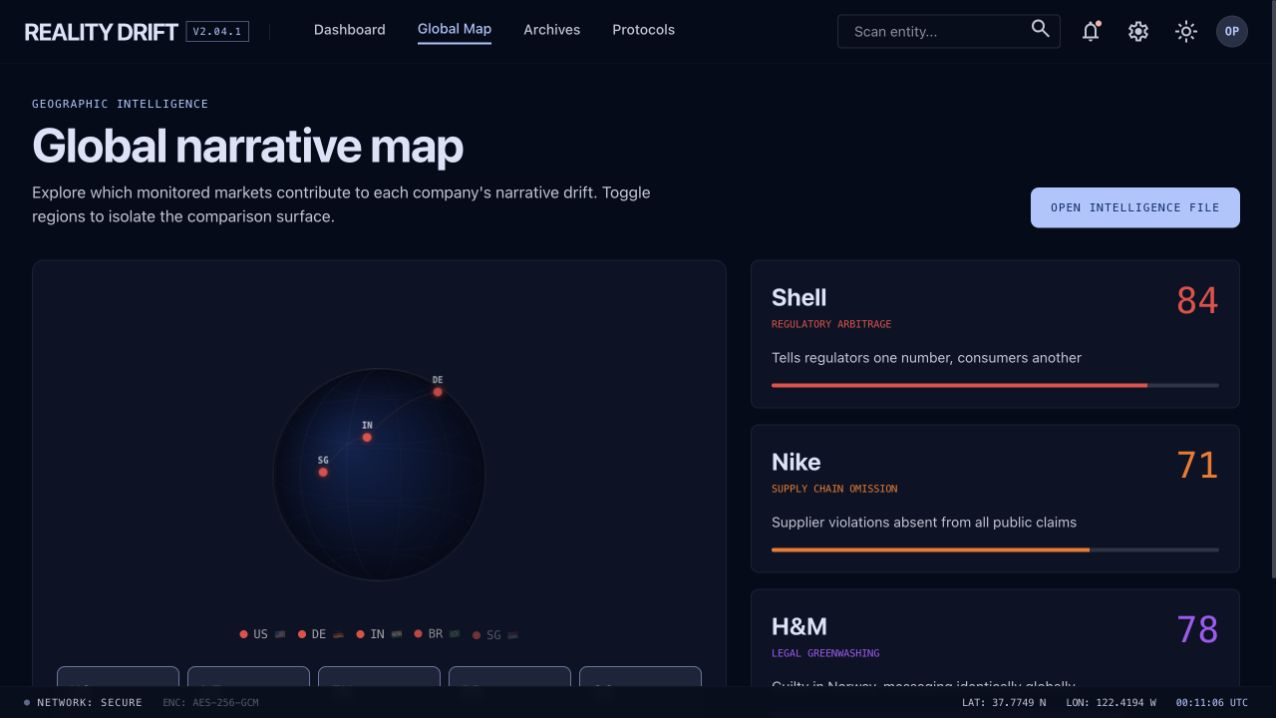
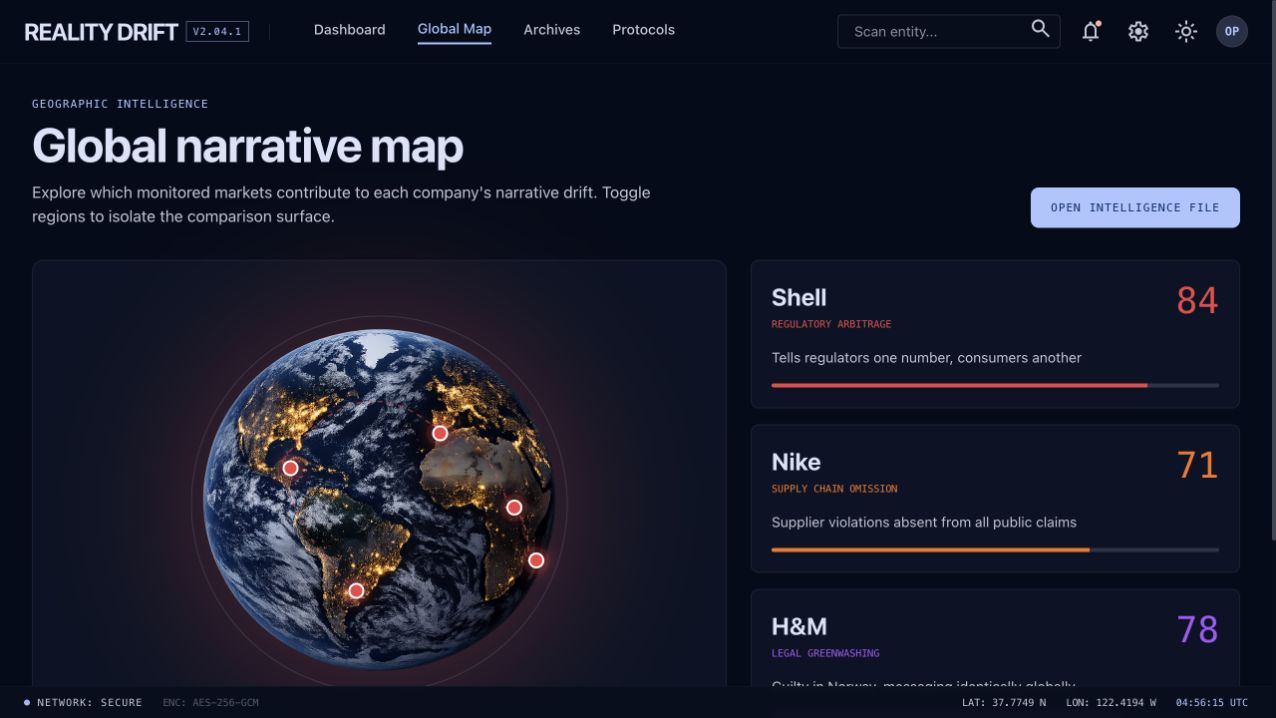
fix: use photorealistic Earth for global map

Changed region(s): [[0.0306, 0.3983, 0.4585, 0.9499], [0.4279, 0.9192, 0.5502, 0.9499], [0.9781, 0.766, 1.0, 0.7967]]

diff --git a/frontend/components/globe/DriftGlobe.tsx b/frontend/components/globe/DriftGlobe.tsx
@@ -1,15 +1,13 @@
 "use client";
 
-import { useEffect, useRef, useState } from "react";
 import { motion } from "framer-motion";
-import { REGION_COORDS } from "@/lib/types";
 
-const REGION_FLAGS: Record<string, string> = {
-  US: "🇺🇸",
-  DE: "🇩🇪",
-  IN: "🇮🇳",
-  BR: "🇧🇷",
-  SG: "🇸🇬",
+const REGION_META: Record<string, { flag: string; left: string; top: string; label: string }> = {
+  US: { flag: "🇺🇸", left: "28%", top: "40%", label: "United States" },
+  DE: { flag: "🇩🇪", left: "62%", top: "32%", label: "Germany / EU" },
+  IN: { flag: "🇮🇳", left: "79%", top: "49%", label: "India" },
+  BR: { flag: "🇧🇷", left: "43%", top: "68%", label: "Brazil" },
+  SG: { flag: "🇸🇬", left: "84%", top: "61%", label: "Singapore" },
 };
 
 interface DriftGlobeProps {
@@ -17,210 +15,8 @@ interface DriftGlobeProps {
   rdiScore?: number;
 }
 
-// Canvas-based fallback globe for SSR safety
-function GlobeCanvas({ activeRegions, rdiScore }: DriftGlobeProps) {
-  const canvasRef = useRef<HTMLCanvasElement>(null);
-  const animRef = useRef<number>(0);
-  const rotationRef = useRef(0);
-
-  // Color based on RDI score
-  const driftColor =
-    !rdiScore || rdiScore < 30
-      ? "#22c55e"
-      : rdiScore < 50
-      ? "#eab308"
-      : rdiScore < 70
-      ? "#f97316"
-      : "#ef4444";
-
-  useEffect(() => {
-    const canvas = canvasRef.current;
-    if (!canvas) return;
-
-    const ctx = canvas.getContext("2d");
-    if (!ctx) return;
-    const draw = ctx; // non-null alias for use inside closure
-
-    const W = canvas.width;
-    const H = canvas.height;
-    const cx = W / 2;
-    const cy = H / 2;
-    const R = Math.min(W, H) * 0.38;
-
-    // Project lat/lng to 3D sphere, then to 2D with rotation
-    function project(lat: number, lng: number, rotation: number) {
-      const phi = ((90 - lat) * Math.PI) / 180;
-      const theta = ((lng + rotation) * Math.PI) / 180;
-      const x = R * Math.sin(phi) * Math.cos(theta);
-      const y = -R * Math.cos(phi);
-      const z = R * Math.sin(phi) * Math.sin(theta);
-      return { x: cx + x, y: cy + y, z };
-    }
-
-    function drawFrame() {
-      draw.clearRect(0, 0, W, H);
-      rotationRef.current += 0.15;
-      const rot = rotationRef.current;
-
-      // Outer glow
-      const grd = draw.createRadialGradient(cx, cy, R * 0.6, cx, cy, R * 1.4);
-      grd.addColorStop(0, "rgba(30, 58, 138, 0.08)");
-      grd.addColorStop(1, "transparent");
-      draw.beginPath();
-      draw.arc(cx, cy, R * 1.4, 0, Math.PI * 2);
-      draw.fillStyle = grd;
-      draw.fill();
-
-      // Globe body
-      const sphereGrd = draw.createRadialGradient(cx - R * 0.3, cy - R * 0.3, R * 0.05, cx, cy, R);
-      sphereGrd.addColorStop(0, "rgba(15, 35, 80, 0.95)");
-      sphereGrd.addColorStop(1, "rgba(5, 10, 24, 0.98)");
-      draw.beginPath();
-      draw.arc(cx, cy, R, 0, Math.PI * 2);
-      draw.fillStyle = sphereGrd;
-      draw.fill();
-
-      // Globe border
-      draw.beginPath();
-      draw.arc(cx, cy, R, 0, Math.PI * 2);
-      draw.strokeStyle = "rgba(255, 255, 255, 0.08)";
-      draw.lineWidth = 1;
-      draw.stroke();
-
-      // Latitude lines
-      draw.save();
-      draw.beginPath();
-      draw.arc(cx, cy, R, 0, Math.PI * 2);
-      draw.clip();
-      for (let lat = -60; lat <= 60; lat += 30) {
-        const y = cy - R * Math.sin((lat * Math.PI) / 180);
-        const r = R * Math.cos((lat * Math.PI) / 180);
-        draw.beginPath();
-        draw.ellipse(cx, y, r, r * 0.25, 0, 0, Math.PI * 2);
-        draw.strokeStyle = "rgba(255, 255, 255, 0.04)";
-        draw.lineWidth = 0.5;
-        draw.stroke();
-      }
-      // Longitude lines
-      for (let lng = 0; lng < 180; lng += 30) {
-        const pts: { x: number; y: number }[] = [];
-        for (let lat = -90; lat <= 90; lat += 5) {
-          const p = project(lat, lng + rot, 0);
-          if (p.z >= 0) pts.push({ x: p.x, y: p.y });
-        }
-        if (pts.length > 1) {
-          draw.beginPath();
-          draw.moveTo(pts[0].x, pts[0].y);
-          for (let i = 1; i < pts.length; i++) draw.lineTo(pts[i].x, pts[i].y);
-          draw.strokeStyle = "rgba(255, 255, 255, 0.03)";
-          draw.lineWidth = 0.5;
-          draw.stroke();
-        }
-        const pts2: { x: number; y: number }[] = [];
-        for (let lat = -90; lat <= 90; lat += 5) {
-          const p = project(lat, lng + 90 + rot, 0);
-          if (p.z >= 0) pts2.push({ x: p.x, y: p.y });
-        }
-        if (pts2.length > 1) {
-          draw.beginPath();
-          draw.moveTo(pts2[0].x, pts2[0].y);
-          for (let i = 1; i < pts2.length; i++) draw.lineTo(pts2[i].x, pts2[i].y);
-          draw.strokeStyle = "rgba(255, 255, 255, 0.03)";
-          draw.lineWidth = 0.5;
-          draw.stroke();
-        }
-      }
-      draw.restore();
-
-      // Draw arcs between visible pins
-      const visiblePins = Object.entries(REGION_COORDS)
-        .map(([region, [lat, lng]]) => ({
-          region,
-          ...project(lat, lng, rot),
-          lat,
-          lng,
-          active: !activeRegions || activeRegions.includes(region),
-        }))
-        .filter((p) => p.z > -R * 0.2);
-
-      // Draw arcs between active pins
-      const activePins = visiblePins.filter((p) => p.active);
-      if (activePins.length > 1) {
-        for (let i = 0; i < activePins.length - 1; i++) {
-          const a = activePins[i];
-          const b = activePins[(i + 1) % activePins.length];
-          const midX = (a.x + b.x) / 2;
-          const midY = (a.y + b.y) / 2 - 20;
-
-          draw.beginPath();
-          draw.moveTo(a.x, a.y);
-          draw.quadraticCurveTo(midX, midY, b.x, b.y);
-          draw.strokeStyle = driftColor + "30";
-          draw.lineWidth = 0.8;
-          draw.stroke();
-        }
-      }
-
-      // Draw region pins
-      for (const pin of visiblePins) {
-        const isActive = !activeRegions || activeRegions.includes(pin.region);
-        const depth = (pin.z + R) / (2 * R); // 0-1 depth
-        const alpha = 0.4 + depth * 0.6;
-
-        if (isActive) {
-          // Glow ring
-          const glowGrd = draw.createRadialGradient(pin.x, pin.y, 2, pin.x, pin.y, 14);
-          glowGrd.addColorStop(0, driftColor + "60");
-          glowGrd.addColorStop(1, "transparent");
-          draw.beginPath();
-          draw.arc(pin.x, pin.y, 14, 0, Math.PI * 2);
-          draw.fillStyle = glowGrd;
-          draw.fill();
-        }
-
-        // Pin dot
-        draw.beginPath();
-        draw.arc(pin.x, pin.y, isActive ? 5 : 3, 0, Math.PI * 2);
-        draw.fillStyle = isActive
-          ? driftColor + Math.round(alpha * 255).toString(16).padStart(2, "0")
-          : `rgba(255,255,255,${alpha * 0.2})`;
-        draw.fill();
-
-        // Region label
-        if (isActive && depth > 0.4) {
-          draw.font = "bold 10px monospace";
-          draw.fillStyle = `rgba(255,255,255,${alpha * 0.8})`;
-          draw.textAlign = "center";
-          draw.fillText(pin.region, pin.x, pin.y - 10);
-        }
-      }
-
-      animRef.current = requestAnimationFrame(drawFrame);
-    }
-
-    animRef.current = requestAnimationFrame(drawFrame);
-    return () => cancelAnimationFrame(animRef.current);
-  }, [activeRegions, driftColor]);
-
-  return (
-    <canvas
-      ref={canvasRef}
-      width={320}
-      height={320}
-      className="w-full h-full"
-      style={{ maxWidth: 320, maxHeight: 320 }}
-    />
-  );
-}
-
 export default function DriftGlobe({ activeRegions, rdiScore }: DriftGlobeProps) {
-  const [mounted, setMounted] = useState(false);
-  const regions = activeRegions ?? ["US", "DE", "IN", "BR", "SG"];
-
-  useEffect(() => {
-    setMounted(true);
-  }, []);
-
+  const regions = activeRegions ?? Object.keys(REGION_META);
   const driftColor =
     !rdiScore || rdiScore < 30
       ? "#22c55e"
@@ -231,52 +27,77 @@ export default function DriftGlobe({ activeRegions, rdiScore }: DriftGlobeProps)
       : "#ef4444";
 
   return (
-    <div className="flex flex-col items-center gap-3">
+    <div className="flex flex-col items-center gap-4 w-full">
       <motion.div
-        initial={{ opacity: 0, scale: 0.9 }}
+        initial={{ opacity: 0, scale: 0.96 }}
         animate={{ opacity: 1, scale: 1 }}
-        transition={{ duration: 0.8, ease: "easeOut" }}
-        className="relative flex items-center justify-center"
-        style={{ width: 280, height: 280 }}
+        transition={{ duration: 0.7, ease: "easeOut" }}
+        className="relative w-full max-w-[440px] aspect-square isolate"
       >
-        {mounted ? (
-          <GlobeCanvas activeRegions={regions} rdiScore={rdiScore} />
-        ) : (
-          // SSR placeholder
-          <div
-            className="rounded-full border border-white/8"
-            style={{ width: 220, height: 220, background: "rgba(5,10,24,0.95)" }}
-          />
-        )}
-      </motion.div>
+        <div
+          className="absolute inset-[4%] rounded-full blur-3xl opacity-25"
+          style={{ background: driftColor }}
+        />
 
-      {/* Region pins legend */}
-      <motion.div
-        initial={{ opacity: 0 }}
-        animate={{ opacity: 1 }}
-        transition={{ delay: 0.5 }}
-        className="flex gap-3 flex-wrap justify-center"
-      >
-        {Object.entries(REGION_FLAGS).map(([region, flag], i) => {
-          const isActive = regions.includes(region);
+        {/* The project Earth asset is a 1024px photorealistic planetary render. */}
+        {/* eslint-disable-next-line @next/next/no-img-element */}
+        <img
+          src="/globe.png"
+          alt="Photorealistic Earth showing the monitored global regions"
+          className="absolute inset-0 w-full h-full object-contain rounded-full select-none"
+          draggable={false}
+        />
+
+        <svg className="absolute inset-0 w-full h-full pointer-events-none" viewBox="0 0 100 100" aria-hidden="true">
+          <path d="M28 40 Q45 18 62 32" fill="none" stroke={driftColor} strokeWidth="0.35" strokeDasharray="1.2 1.2" opacity="0.55" />
+          <path d="M62 32 Q73 32 79 49" fill="none" stroke={driftColor} strokeWidth="0.35" strokeDasharray="1.2 1.2" opacity="0.55" />
+          <path d="M79 49 Q84 53 84 61" fill="none" stroke={driftColor} strokeWidth="0.35" strokeDasharray="1.2 1.2" opacity="0.55" />
+          <path d="M43 68 Q30 56 28 40" fill="none" stroke={driftColor} strokeWidth="0.35" strokeDasharray="1.2 1.2" opacity="0.55" />
+        </svg>
+
+        {Object.entries(REGION_META).map(([region, meta], index) => {
+          const active = regions.includes(region);
           return (
             <motion.div
               key={region}
-              initial={{ opacity: 0, y: 5 }}
-              animate={{ opacity: isActive ? 1 : 0.3, y: 0 }}
-              transition={{ delay: 0.6 + i * 0.08 }}
-              className="flex items-center gap-1.5 text-xs"
+              initial={{ opacity: 0, scale: 0 }}
+              animate={{ opacity: active ? 1 : 0.2, scale: active ? 1 : 0.75 }}
+              transition={{ delay: 0.18 + index * 0.08 }}
+              className="absolute -translate-x-1/2 -translate-y-1/2 group"
+              style={{ left: meta.left, top: meta.top }}
             >
+              {active && (
+                <span
+                  className="absolute inset-0 rounded-full animate-ping"
+                  style={{ background: driftColor, opacity: 0.38 }}
+                />
+              )}
               <span
-                className="w-2 h-2 rounded-full flex-shrink-0"
-                style={{ background: isActive ? driftColor : "rgba(255,255,255,0.2)" }}
+                className="relative flex h-4 w-4 rounded-full border-2 border-white shadow-lg"
+                style={{ background: active ? driftColor : "#64748b", boxShadow: active ? `0 0 18px ${driftColor}` : undefined }}
               />
-              <span className="text-white/60 font-mono">{region}</span>
-              <span className="text-white/30">{flag}</span>
+              <span className="absolute left-1/2 -translate-x-1/2 top-5 whitespace-nowrap rounded bg-background/90 border border-outline-variant/30 px-2 py-1 font-data-label text-[9px] text-on-surface opacity-0 group-hover:opacity-100 transition-opacity z-20">
+                {region} · {meta.label}
+              </span>
             </motion.div>
           );
         })}
+
+        <div className="absolute inset-[7%] rounded-full border border-primary/15 pointer-events-none" />
       </motion.div>
+
+      <div className="flex gap-3 flex-wrap justify-center">
+        {Object.entries(REGION_META).map(([region, meta]) => {
+          const active = regions.includes(region);
+          return (
+            <div key={region} className={`flex items-center gap-1.5 transition-opacity ${active ? "opacity-100" : "opacity-30"}`}>
+              <span className="w-1.5 h-1.5 rounded-full" style={{ background: active ? driftColor : "#64748b" }} />
+              <span className="font-data-label text-[10px] text-on-surface-variant">{region}</span>
+              <span className="text-xs">{meta.flag}</span>
+            </div>
+          );
+        })}
+      </div>
     </div>
   );
 }
